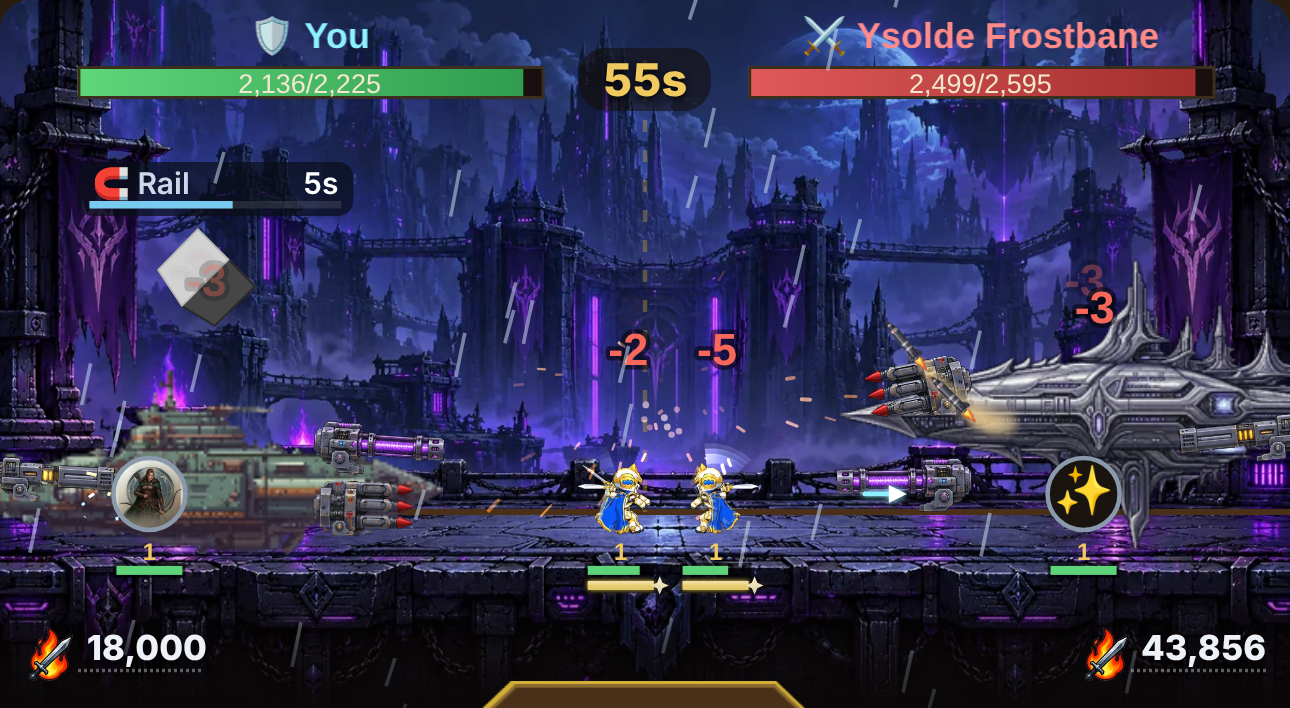
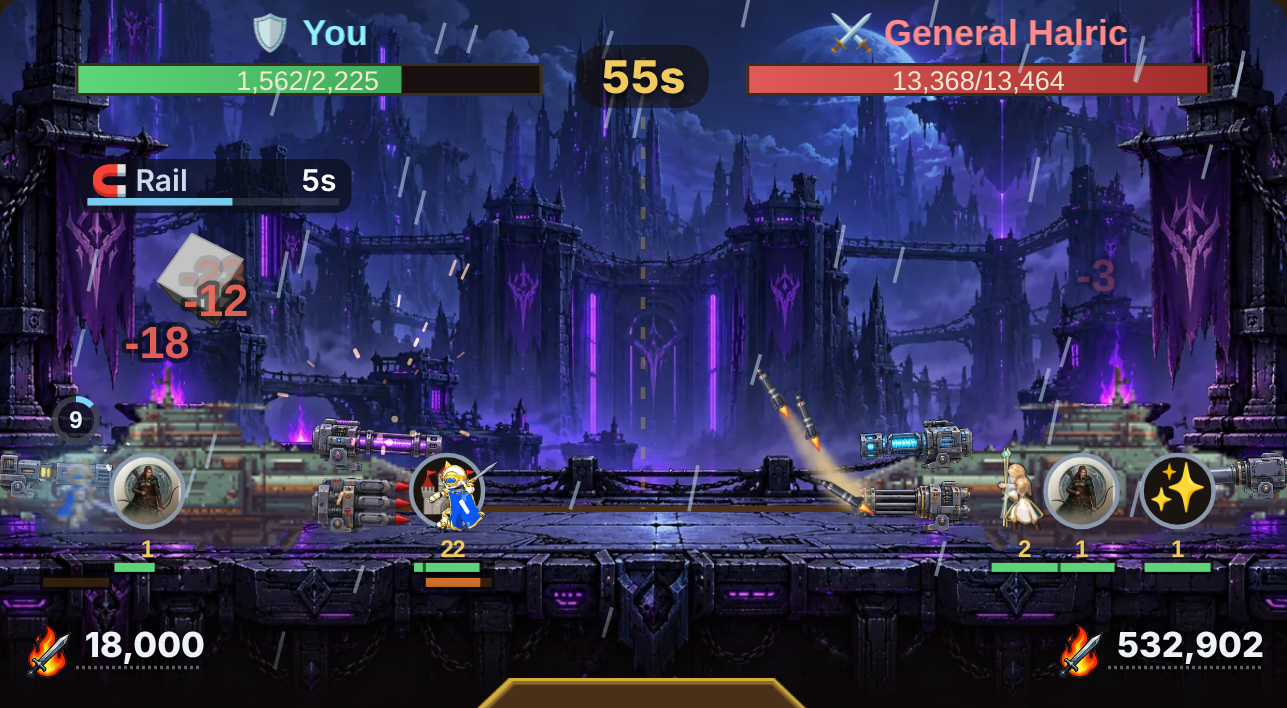
v1169: weapon barrel size default 0.26
Claude-Session: https://claude.ai/code/session_01QsPEQ4Aqm4527bERCrNpiN

diff --git a/dev/simfork/g293_barrels.js b/dev/simfork/g293_barrels.js
@@ -33,7 +33,7 @@ async function run() {
     const r = (a) => Math.max(...a) - Math.min(...a); return { lifeOn: fortLife.active, hullDyRange: +r(xs.map((q) => q[3])).toFixed(2), tipRelYRange: +r(xs.map((q) => q[1])).toFixed(2), angRange: +r(xs.map((q) => q[2])).toFixed(3) }; });
   await P.evaluate(() => setScreen("more", "arena")); await P.waitForTimeout(1500);
   await P.evaluate(() => { document.getElementById("arenaQuickMatchBtn").click(); }); await P.waitForTimeout(1000);
-  await P.evaluate(() => { arenaOpponent.weapons = { pulse_beam: 20, scatter_rounds: 20, flak_burst: 20 }; document.getElementById("arenaAttackBtn").click(); });
+  await P.evaluate(() => { arenaOpponent.weapons = { pulse_beam: 20, scatter_rounds: 20, flak_burst: 20 }; arenaAiWeaponOrder = Object.keys(arenaOpponent.weapons); document.getElementById("arenaAttackBtn").click(); });
   await P.waitForTimeout(4000);
   const ab = await P.evaluate(() => { const c = document.getElementById("arenaCanvas") || [...document.querySelectorAll("canvas")].sort((a, b) => b.width * b.height - a.width * a.height)[0]; const r = c.getBoundingClientRect(); return { x: r.left, y: r.top, width: r.width, height: r.height }; });
   for (let i = 0; i < 3; i++) { await P.waitForTimeout(1200); await P.screenshot({ path: path.join(__dirname, "out_g293_arena" + i + ".png"), clip: ab }); }

diff --git a/dev/NOTES.md b/dev/NOTES.md
@@ -1945,3 +1945,6 @@
 
 ## v1169 — Barrel size default 0.26 (TEST)
 - Harley: barrel size 0.26 (was 0.33), from the Dev Tools slider. Devices that moved the slider keep their own value until "Default" is pressed. g293 ok.
+
+## v1169 — Barrel size default 0.26 (TEST)
+- Harley: barrel size 0.26 (was 0.33), from the Dev Tools slider. Devices that moved the slider keep their own value until "Default" is pressed. g293 ok (its Arena step now sets the bot's slot order after changing the bot's weapons, since v1167 fills the order at match start).
